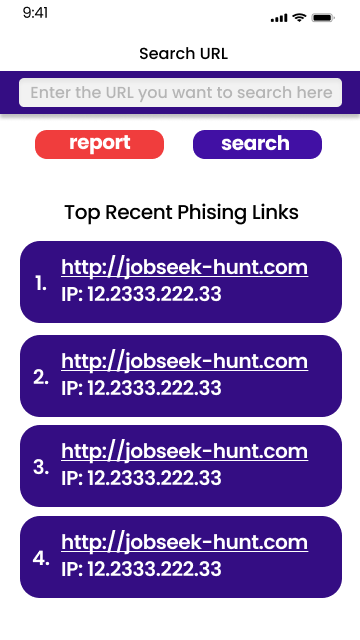
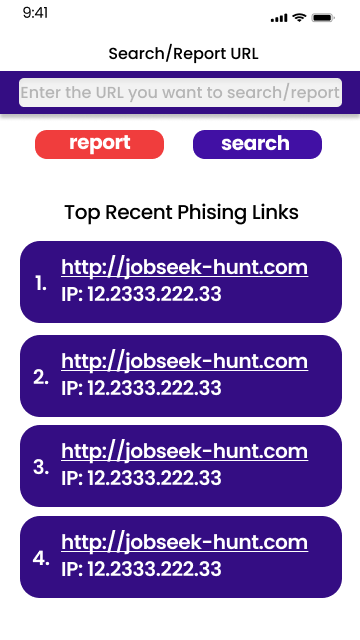
update rport mockup and answer feedback

Changed region(s): [[0.0611, 0.125, 0.6722, 0.1562], [0.3056, 0.0625, 0.7333, 0.0938], [0.7028, 0.125, 0.9472, 0.1562]]

diff --git a/README.md b/README.md
@@ -145,7 +145,9 @@ Reason: Complete REST endpoint & WebVIew source & information.
 ### 1313618013 (Zaidan Pratama) Pending
 I want to make an application for people to scan the url so that they know the url is safe or not and the app also provides top recents phising links
 
-Feedback: Add mockup for report page. 
+Feedback: Add mockup for report page.
+
+Answer: I added report page mockup sir. I want to show the report response as a Toast sir.
 
 ### 1313618014 (Muhammad Ardani) Pending
 I want to make an application that will show football leagues & cups include livescore etc.

diff --git a/1313618013/README.md b/1313618013/README.md
@@ -21,3 +21,4 @@ People who wants to check the url they want to visit
 ![Splash Screen](https://github.com/mekas/mb1313600022/blob/master/1313618013/splashscreen.png)
 ![Home Page](https://github.com/mekas/mb1313600022/blob/master/1313618013/homepage.png)
 ![Detail Page](https://github.com/mekas/mb1313600022/blob/master/1313618013/detailpage.png)
+![Report Page](https://github.com/mekas/mb1313600022/blob/master/1313618013/reportpage.png)
